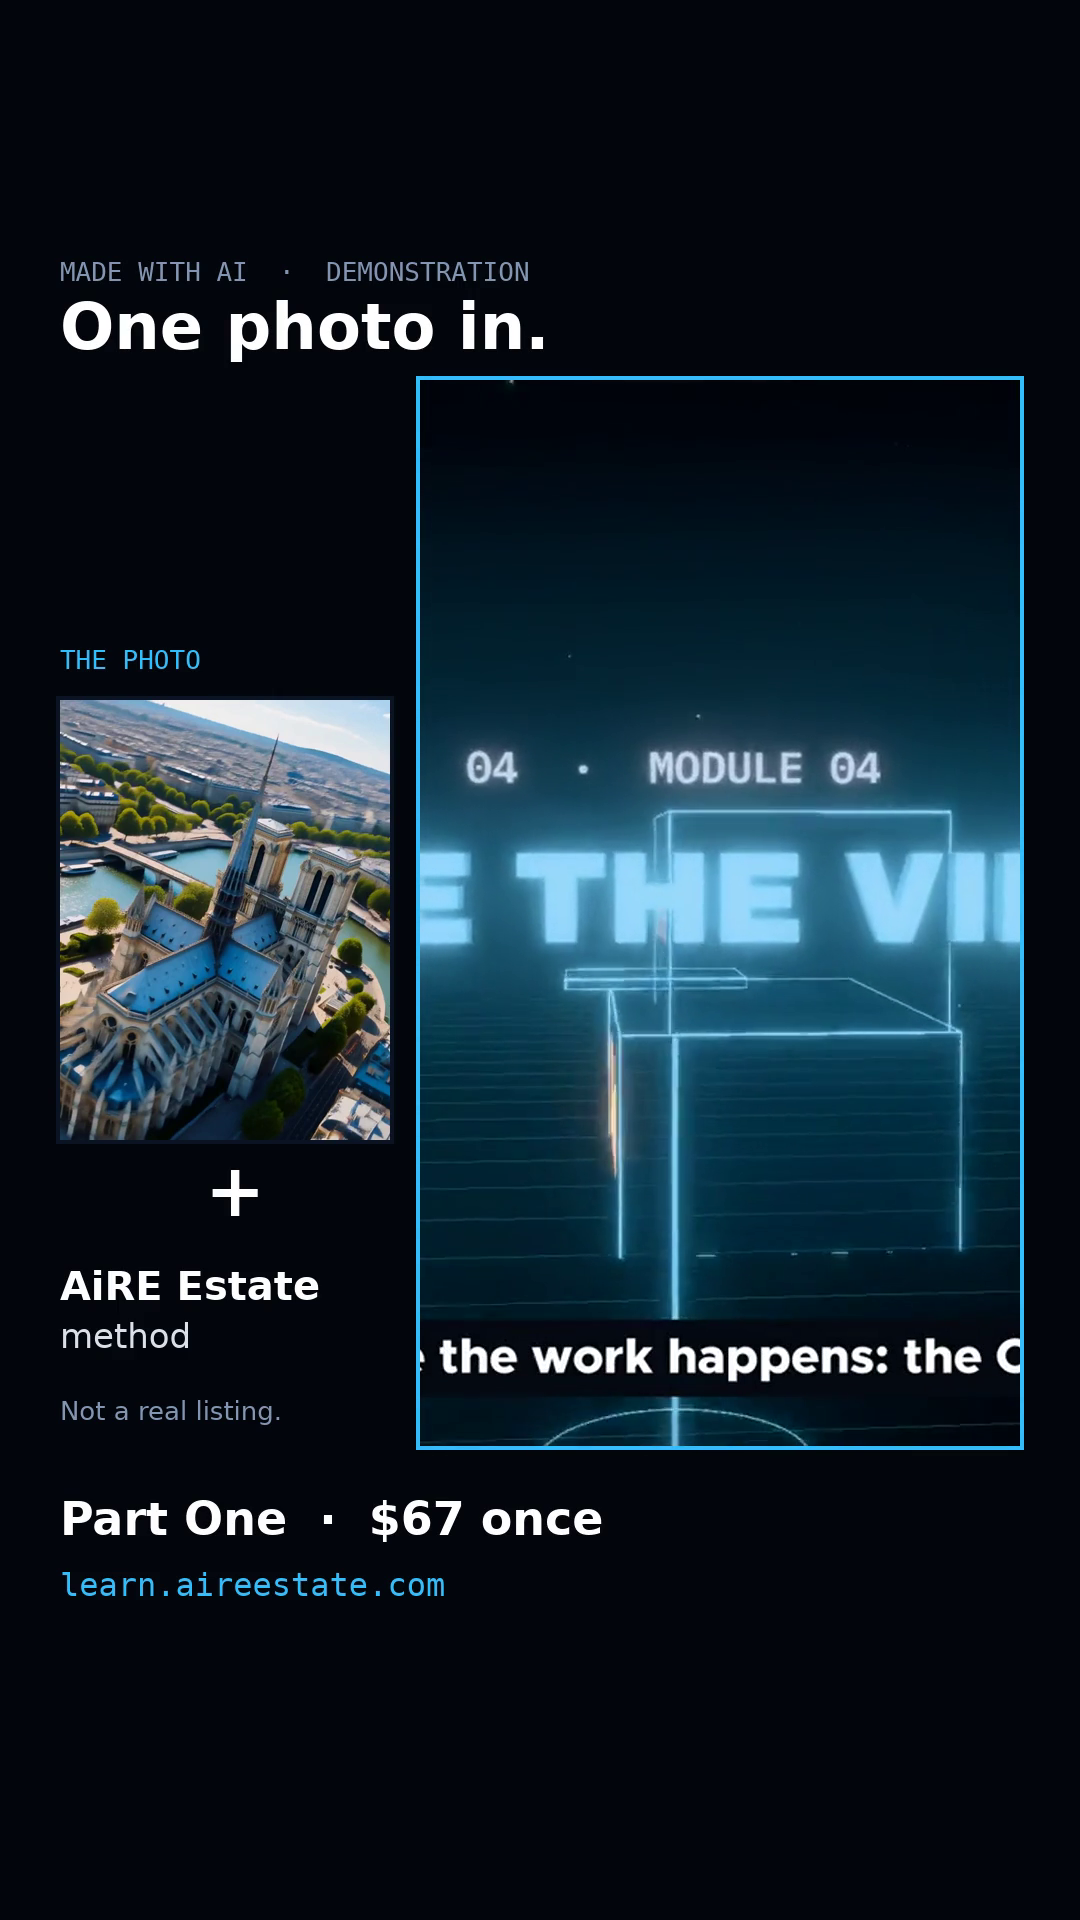
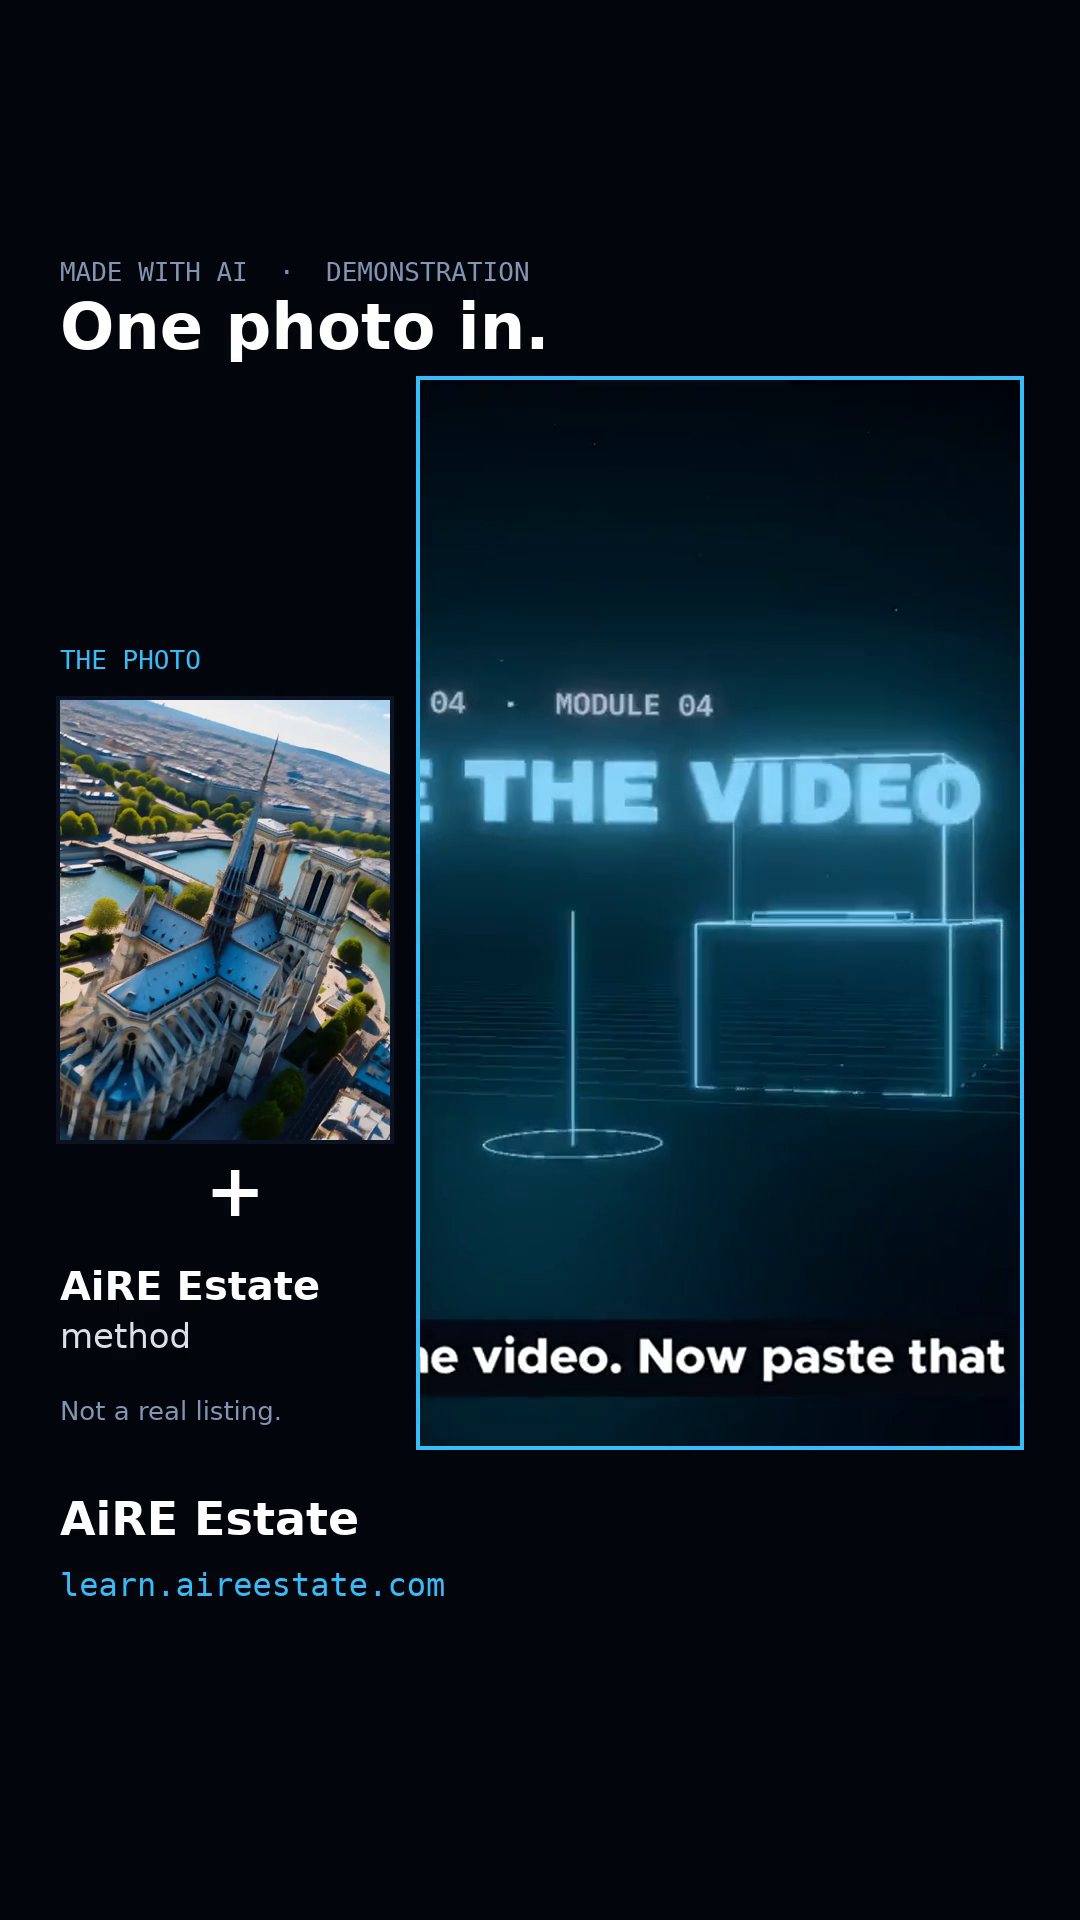
Build reveal: free local Wan2GP route, offer line reads AiRE Estate
Claude-Session: https://claude.ai/code/session_01FCBqS3PFTNyuCNsnGkPSww

Changed region(s): [[0.3667, 0.3438, 0.9472, 0.75], [0.0611, 0.7812, 0.55, 0.8125]]

diff --git a/marketing/build-reveal/compose.py b/marketing/build-reveal/compose.py
@@ -52,7 +52,7 @@ def main():
     ap.add_argument("out")
     ap.add_argument("--seconds", type=float, default=12)
     ap.add_argument("--headline", default="One photo in.")
-    ap.add_argument("--offer", default="Part One  \u00b7  $67 once")
+    ap.add_argument("--offer", default="AiRE Estate")
     a = ap.parse_args()
     if not shutil.which("ffmpeg"):
         sys.exit("ffmpeg not found on PATH")

diff --git a/marketing/build-reveal/README.md b/marketing/build-reveal/README.md
@@ -16,40 +16,42 @@ A 1080×1920 Reel, about 12 seconds:
 - **Right:** the clip. The lot starts empty and the home assembles piece by piece
   until it matches the photo exactly.
 - **Top:** "MADE WITH AI · DEMONSTRATION" and the headline "One photo in."
-- **Bottom:** "Part One · $67 once" and `learn.aireestate.com`, with no text in the
+- **Bottom:** "AiRE Estate" and `learn.aireestate.com`, with no text in the
   top or bottom 250 px.
 
 ## Steps
 
 1. **The photo (end frame).** Use an AI-generated mountain-modern home, not a real
-   listing. Use daylight with no people, no signs and no house numbers.
+   listing. Shoot it at dusk with no people, no signs and no house numbers.
 2. **The empty lot (start frame).** Edit the same photo so the house is gone and
    the site is graded dirt. Sky, trees, road, poles and power lines stay
    pixel-for-pixel. (The prompt is below.)
-3. **The clip.** Generate it from the empty-lot start frame to the photo end frame
-   with a first/last-frame video model. (The prompt is below.)
-4. **Assemble the Reel** (free; this needs only `ffmpeg`):
+3. **The clip (free, on the laptop's GPU).** In Wan2GP, pick an image-to-video
+   model that takes both a **start image and an end image** (Wan's first/last-frame
+   models do). Start image: the empty lot. End image: the finished photo. Paste
+   the clip prompt below and set it to vertical 9:16, about 5 seconds, 16–24 fps.
+   The first run downloads the model weights, which are large, so give it time.
+   If the house melts or the trees move, run it again with a new seed before you
+   change the prompt.
+4. **Assemble the Reel** (free; this needs only `ffmpeg`, or send the photo and
+   clip to a Claude session and it runs this step):
 
        python3 marketing/build-reveal/compose.py home.jpg clip.mp4 build-reveal.mp4
 
-   `--headline` and `--offer` change the two big lines, and `--seconds` sets the
+   `--headline` and `--offer` change the two big lines (the offer defaults to
+   "AiRE Estate"), and `--seconds` sets the
    length. If Archivo, Manrope or IBM Plex Mono `.ttf` files are put in
    `marketing/build-reveal/fonts/`, the script uses them. Without them, it falls
    back to DejaVu or Arial.
 5. **Check every frame** before it goes in the queue. Look for the "Made with AI"
-   label, the $67 price, no name or face, no warped house, and an end frame that
+   label, no name or face, no warped house, and an end frame that
    matches the photo.
 
-## Free vs. paid
+## Cost
 
-| Step | Free route | Paid route (needs Charles's go) |
-|---|---|---|
-| End photo | ChatGPT (free tier), or the Open Generative AI Image Studio on the laptop | n/a |
-| Empty-lot frame | ChatGPT image edit | n/a |
-| Clip | Wan2GP (Wan first/last-frame) through Open Generative AI, **only with an NVIDIA/AMD GPU** (see `tools/open-generative-ai/README.md`) | Higgsfield/HeyGen credits from this session. I quote the cost first and spend nothing without a "go". |
-| Assembly | `compose.py` + ffmpeg | n/a |
-
-The clip is the only step with no free route unless the laptop has a GPU.
+All of it is free. Charles's laptop has the GPU Wan2GP needs (he confirmed this
+2026-10-21), so the clip renders locally. Images come from ChatGPT's free tier or
+the Open Generative AI Image Studio. Nothing here spends credits.
 
 ## Prompts (internal, do not post)
 
@@ -83,11 +85,5 @@ The clip is the only step with no free route unless the laptop has a GPU.
 >
 > This is a demonstration, not a real listing. Made with AI.
 >
-> Part One teaches agents to turn one listing photo into a cinematic,
-> drone-style video. $67, once. learn.aireestate.com
-
-## Open question
-
-Part One teaches the drone-style flight, not this build-reveal effect. Before
-posting, Charles decides whether the offer line stays "Part One · $67 once" or
-becomes something neutral, such as `--offer "AiRE Estate"`.
+> AiRE Estate teaches working agents to make listing media with AI.
+> learn.aireestate.com

diff --git a/.claude/memory/laptop-has-gpu.md b/.claude/memory/laptop-has-gpu.md
@@ -1,0 +1,14 @@
+---
+name: laptop-has-gpu
+description: Charles's laptop has an NVIDIA/AMD GPU, so free local video (Wan2GP) is his route for AI clips
+---
+
+Charles confirmed on 2026-10-21 that his laptop has an NVIDIA or AMD GPU. That
+means free local video through Wan2GP in Open Generative AI is open to him, and
+it is the default route for AI clips such as the build reveal in
+`marketing/build-reveal/`. A cloud session still can't drive the laptop, so I
+write the steps and he runs them.
+
+For the build-reveal Reel, the offer line is "AiRE Estate", not
+"Part One · $67 once", because Part One doesn't teach that effect (Charles,
+2026-10-21).
